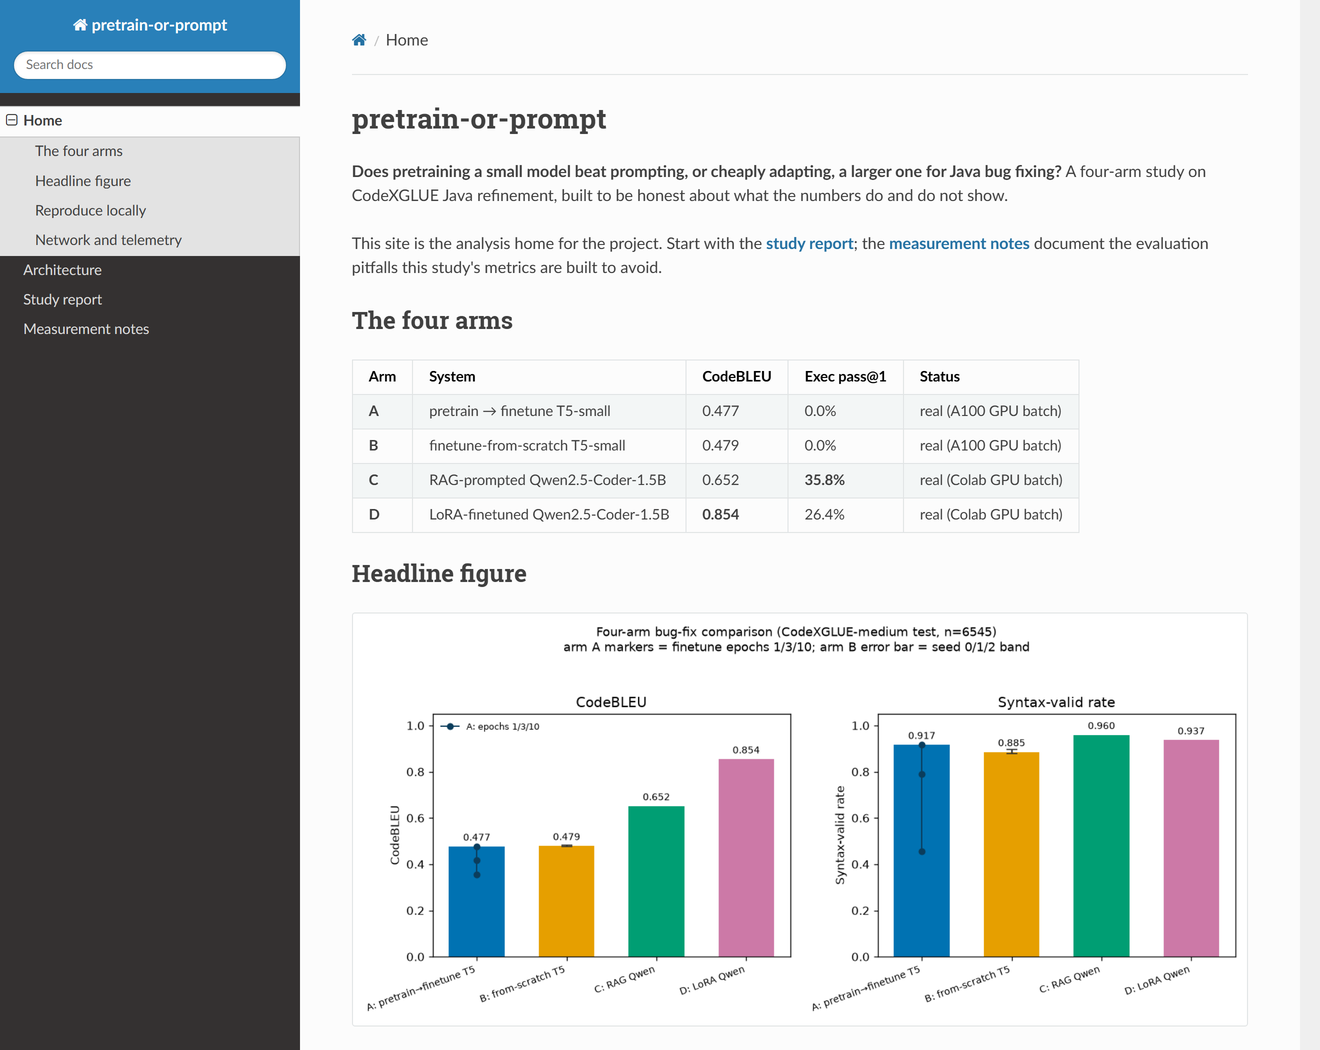
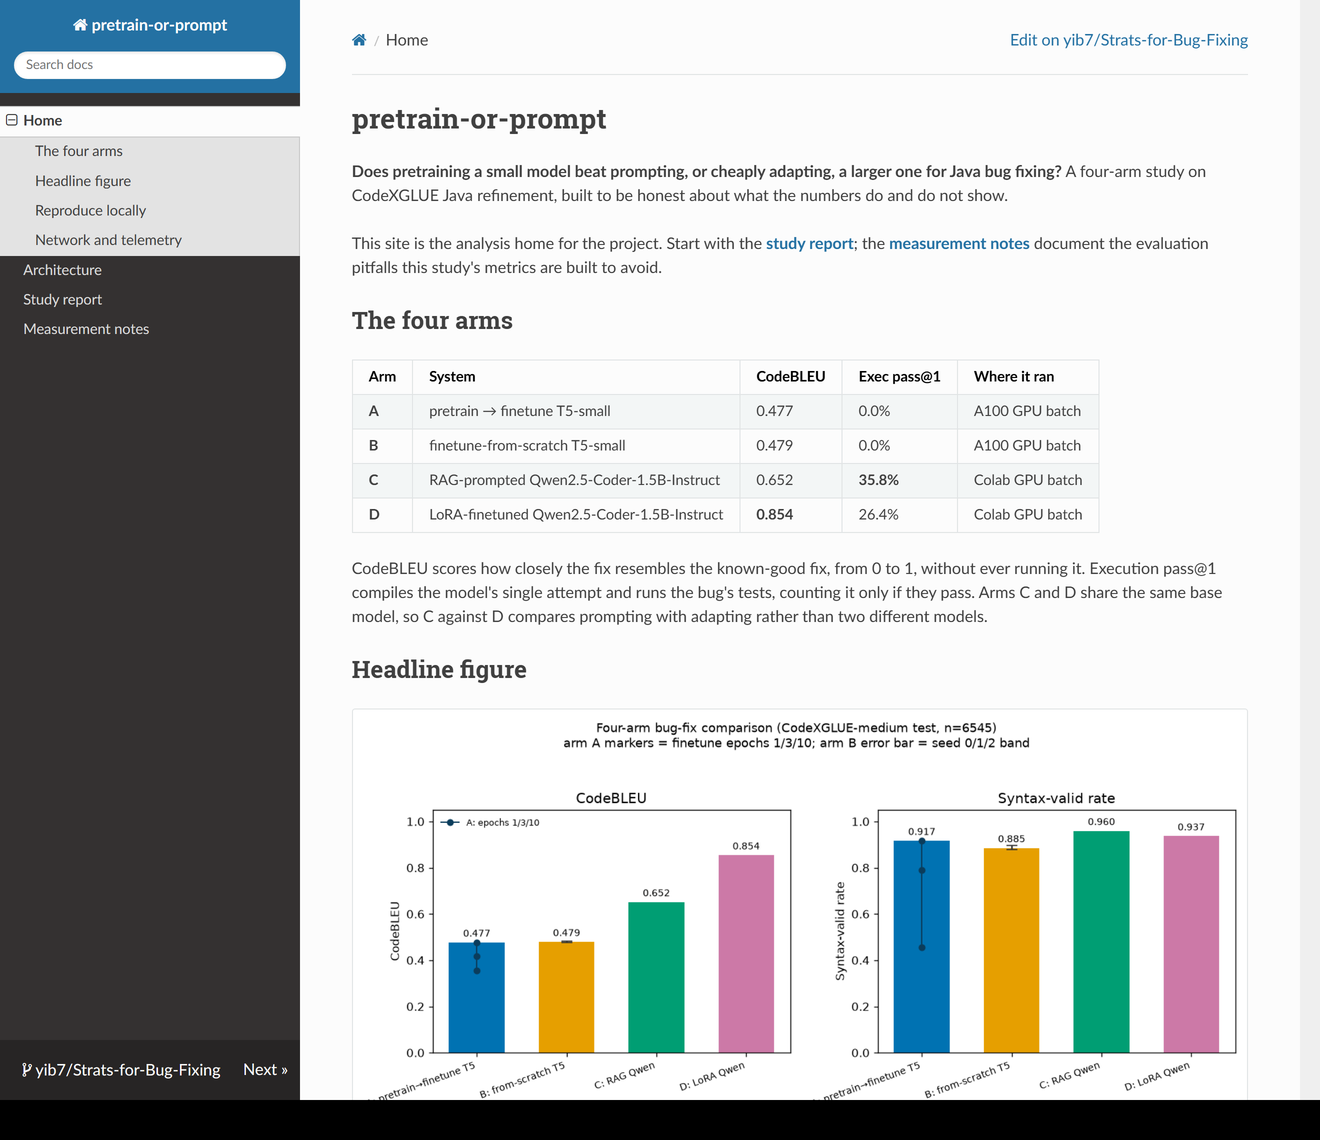
cross-check every claim against the file that determines it
67 claims checked against their source of truth. Six were wrong.

The test count said 414 and is now 448. The GIF and its alt text both still said
386, so the GIF was re-recorded against the current CLI rather than editing the
alt text to describe a recording that no longer matched.

The git_sha claim was simply false. README and report.md both said every
results/*.json carries git_sha unknown. Thirty-three of thirty-five do; smoke
and execbench_validate_references carry real shas that the history rewrite left
unreachable from main. Scoped and explained instead of overstated.

docs-site.png was a screenshot of a UI since changed: it showed a Status column
that no longer exists, the Qwen model without -Instruct, and the old header blue
from before this cycle's contrast fix. Recaptured, and the crop widened so the
figure is no longer cut mid-bars.

gpu-runbook step 4 pointed at rag_bm25_k3 as the highest-CodeBLEU config. It is
the worst of the k>0 configs at 0.6262; rag_codebert_k1 is the best at 0.6517.

The changelog's 'about 96 seconds' was never measured. It is 42.

Also split report.md's finding 7, five claims in one 185-word paragraph, and
added the plain scope statement the README was missing.

diff --git a/scripts/media/make_docs_screenshot.py b/scripts/media/make_docs_screenshot.py
@@ -26,8 +26,9 @@ DEFAULT_OUT = REPO_ROOT / "docs" / "media" / "docs-site.png"
 VIEWPORT = (1440, 1100)
 SCALE = 2
 # Cropped in captured (2x) pixels: the theme's content column ends at 2599, so 2640 leaves a thin
-# margin, and 2100 cuts just below the headline figure rather than mid-sentence.
-CROP = (2640, 2100)
+# margin, and 2280 cuts in the gap below the headline figure rather than through it or mid-sentence.
+# Re-measure this height whenever docs/index.md gains or loses content above the figure.
+CROP = (2640, 2280)
 
 BROWSERS = (
     "C:/Program Files/Google/Chrome/Application/chrome.exe",

diff --git a/docs/report.md b/docs/report.md
@@ -222,18 +222,22 @@ Several of these are negative results, and they are reported as such.
    registers a match whenever a model makes one. T5 simply does not make them.
 
 7. **Execution is the discriminating lens: only the LLM arms fix real bugs, and the T5 arms' 0% is a
-   domain mismatch, not a null result.** C and D fix 26–36% of the 201 real bugs; the
-   CodeBLEU-competitive T5 arms A and B both fix **zero**, at an identical 0.0% compile / 0.0% pass, so
-   the failure is the shared architecture, not one seed. The T5 arms' 0.0% pass (100% `compile_error` on
-   both QuixBugs and HumanEval-Java) is not evidence the harness is broken, since the same harness
-   passes reference patches 201/201 (`results/execbench_validate_references.json`). It is a
-   **whole-file-vs-method domain mismatch**: T5 was trained and evaluated on CodeXGLUE's *abstracted
-   single-method* snippets, but the execution benchmark feeds *whole concrete Java files* (real
-   class/import/field context, real identifiers). T5 never learned to handle that input shape, so its
-   output never compiles. The instruction-tuned Qwen arms, by contrast, generalize (zero-shot in C, or
-   with light adaptation in D) to whole-file input despite never being finetuned on it. This is itself
-   a finding about T5's brittleness to input-distribution shift versus the LLMs' broader
-   generalization, not proof that arm A "learned nothing" (see Limitations).
+   domain mismatch, not a null result.**
+
+      - C and D fix 26–36% of the 201 real bugs; the CodeBLEU-competitive T5 arms A and B both fix
+        **zero**, at an identical 0.0% compile / 0.0% pass, so the failure is the shared architecture,
+        not one seed.
+      - The T5 arms' 0.0% pass (100% `compile_error` on both QuixBugs and HumanEval-Java) is not
+        evidence the harness is broken, since the same harness passes reference patches 201/201
+        (`results/execbench_validate_references.json`).
+      - It is a **whole-file-vs-method domain mismatch**: T5 was trained and evaluated on CodeXGLUE's
+        *abstracted single-method* snippets, but the execution benchmark feeds *whole concrete Java
+        files* (real class/import/field context, real identifiers). T5 never learned to handle that
+        input shape, so its output never compiles.
+      - The instruction-tuned Qwen arms, by contrast, generalize (zero-shot in C, or with light
+        adaptation in D) to whole-file input despite never being finetuned on it.
+      - This is itself a finding about T5's brittleness to input-distribution shift versus the LLMs'
+        broader generalization, not proof that arm A "learned nothing" (see Limitations).
 
 ## Limitations
 
@@ -254,11 +258,14 @@ Several of these are negative results, and they are reported as such.
   exists, but its smallest published size is 30B-A3B, so the 1.5B tier has no Qwen3-Coder equivalent
   to swap in. Comparing against it would change the parameter budget as well as the model generation,
   which is a different experiment.
-- **Provenance caveat.** Every `results/*.json` carries `git_sha: unknown`: the Colab runs executed
-  from an uploaded code zip with no `.git`, so the exact commit that produced each batch is not
-  embedded in the artifacts. The committed `results/*.json` are therefore the source of truth, and
-  every number in this report was cross-checked directly against its source file (the A/B finetune
-  batch is additionally written up in `results/phase2_summary.md`). Reproducing the runs from
+- **Provenance caveat.** No number here traces to a commit. All 33 per-run `results/*.json` carry
+  `git_sha: unknown`: the Colab runs executed from an uploaded code zip with no `.git`, so the exact
+  commit that produced each batch is not embedded in the artifacts. The two locally produced files,
+  `smoke.json` and `execbench_validate_references.json`, do carry a sha, but from history that has
+  since been rewritten, so they do not resolve either. The committed `results/*.json` are therefore
+  the source of truth, and every number in this report was cross-checked directly against its source
+  file (the A/B finetune batch is additionally written up in `results/phase2_summary.md`).
+  Reproducing the runs from
   scratch, rather than trusting the committed JSONs, requires re-executing the notebooks on a GPU
   (`docs/gpu-reproduction.md`).
 

diff --git a/README.md b/README.md
@@ -14,7 +14,7 @@ the finding.
 
 ![Terminal recording of the CPU reproduce path. `pop smoke` runs the tokenizer, pretrain, finetune,
 generate and score stages and prints its summary table; the figure script rewrites three PNGs;
-mkdocs builds the site in 0.16 s; pytest reports 386 passed; and the Java execution harness
+mkdocs builds the site in 0.16 s; pytest reports 448 passed; and the Java execution harness
 validates 201 of 201 reference patches at pass_rate 1.0.](docs/media/reproduce.gif)
 
 Every command in that recording runs on a laptop CPU from a clean clone, with no GPU and no API
@@ -211,7 +211,7 @@ That is expected; `git checkout docs/figures` puts the committed copies back.
 ### Anything else worth running
 
 ```bash
-uv run pytest                    # the test suite, 414 tests, ~55 s (add -m "not jdk" if you have no JDK)
+uv run pytest                    # the test suite, 448 tests, ~60 s (add -m "not jdk" if you have no JDK)
 uv run pop --help                # all ten subcommands
 uv run pop execbench --validate-references --jobs 4   # needs a JDK; 201/201 in ~40 s
 ```
@@ -246,6 +246,8 @@ For the full GPU reproduction (pretrain → finetune → RAG → LoRA → execut
 
 ## What this does not show
 
+- This is a measurement study, not a bug-fixing tool. Nothing here is production software, and
+  none of these numbers is a state-of-the-art claim. The best arm still fails 64% of the bugs.
 - One decoding setting. Greedy, 256 new tokens, every arm. No beam-search pass was run.
 - CodeBLEU is a surface proxy. An edit that is valid but different, or that does not compile at
   all, can still score well on it. That is why Track 2 exists.
@@ -254,9 +256,14 @@ For the full GPU reproduction (pretrain → finetune → RAG → LoRA → execut
   whole concrete Java files they were never trained on.
 - The larger base is Qwen2.5-Coder-1.5B-Instruct. Qwen3-Coder exists, but its smallest published
   size is 30B-A3B, so the 1.5B tier has no Qwen3-Coder equivalent to swap in and rerun.
-- Every `results/*.json` carries `git_sha: unknown`, because the Colab runs executed from an
-  uploaded zip with no `.git`. The committed JSONs are the source of truth, and every number in the
-  report was cross-checked against its own file.
+- What would come next, in order: method-level extraction and splicing back into the surrounding
+  file, so the T5 arms get a fair execution score instead of a structural zero; then a beam-5
+  decode on A_ep10, to show rather than argue that beam search does not recover exact match.
+- No study number traces to a commit. All 33 per-run `results/*.json` carry `git_sha: unknown`,
+  because the Colab runs executed from an uploaded zip with no `.git`. (The two files produced
+  locally, `smoke.json` and `execbench_validate_references.json`, do carry a sha, but from history
+  that has since been rewritten, so those no longer resolve either.) The committed JSONs are the
+  source of truth, and every number in the report was cross-checked against its own file.
 
 ## License
 

diff --git a/docs/gpu-runbook.md b/docs/gpu-runbook.md
@@ -211,12 +211,13 @@ pop execbench --predictions outputs/execbench/A_all.jsonl --name execbench_A
 **Arm B (from-scratch T5)** measured 0.0% compile / 0.0% pass, identical to arm A. Same as arm A
 but `--model outputs/finetune_B_seed0/best` and `--name execbench_B`.
 
-**Arm C (RAG Qwen)**: pick the best RAG config from Step 1 (highest CodeBLEU, e.g. `rag_bm25_k3`):
+**Arm C (RAG Qwen)**: pick the highest-CodeBLEU RAG config from Step 1. In the committed study that
+is `rag_codebert_k1` (0.6517); re-run yours and take whichever config actually wins:
 
 ```bash
-python scripts/gen_execbench_predictions.py --arm rag --config configs/rag_bm25_k3.yaml \
+python scripts/gen_execbench_predictions.py --arm rag --config configs/rag_codebert_k1.yaml \
   --bench quixbugs      --out outputs/execbench/C_quixbugs.jsonl
-python scripts/gen_execbench_predictions.py --arm rag --config configs/rag_bm25_k3.yaml \
+python scripts/gen_execbench_predictions.py --arm rag --config configs/rag_codebert_k1.yaml \
   --bench humaneval_java --out outputs/execbench/C_humaneval_java.jsonl
 cat outputs/execbench/C_*.jsonl > outputs/execbench/C_all.jsonl
 pop execbench --predictions outputs/execbench/C_all.jsonl --name execbench_C

diff --git a/CHANGELOG.md b/CHANGELOG.md
@@ -25,8 +25,10 @@ First public release. The study is complete and every number in it traces to a c
 
 - `pop` command line tool covering data preparation, tokenizer training, the three training modes,
   evaluation, RAG, and the execution harness.
-- The CPU path reproduces the study's figures and site from committed results in about 96 seconds
-  from a cold clone. Nothing in it retrains a model or needs a GPU.
+- The CPU path reproduces the study's figures and site from committed results in about 42 seconds
+  from a cold clone. Nothing in it retrains a model or needs a GPU. (This entry originally said 96
+  seconds, an estimate that was never measured; 42 s is the measured clone-to-first-result time on
+  Windows 11 with an empty `uv` cache.)
 - 386 tests, hermetic and network-free. CI runs lint, format, the suite, a real JDK harness smoke
   and the documented CPU reproduce path on every push.
 - Documentation site with the full report, measurement notes, and an architecture page.
